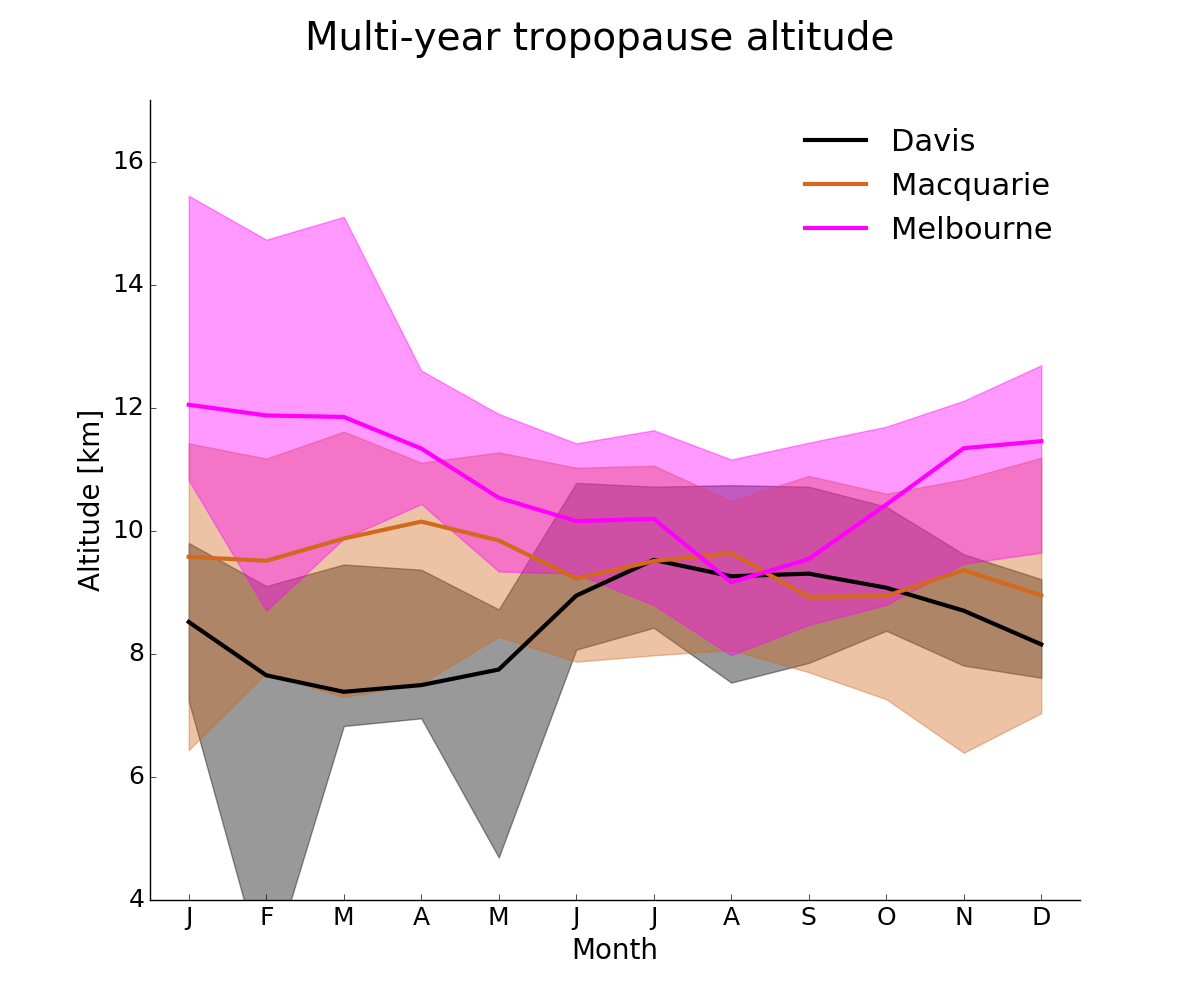
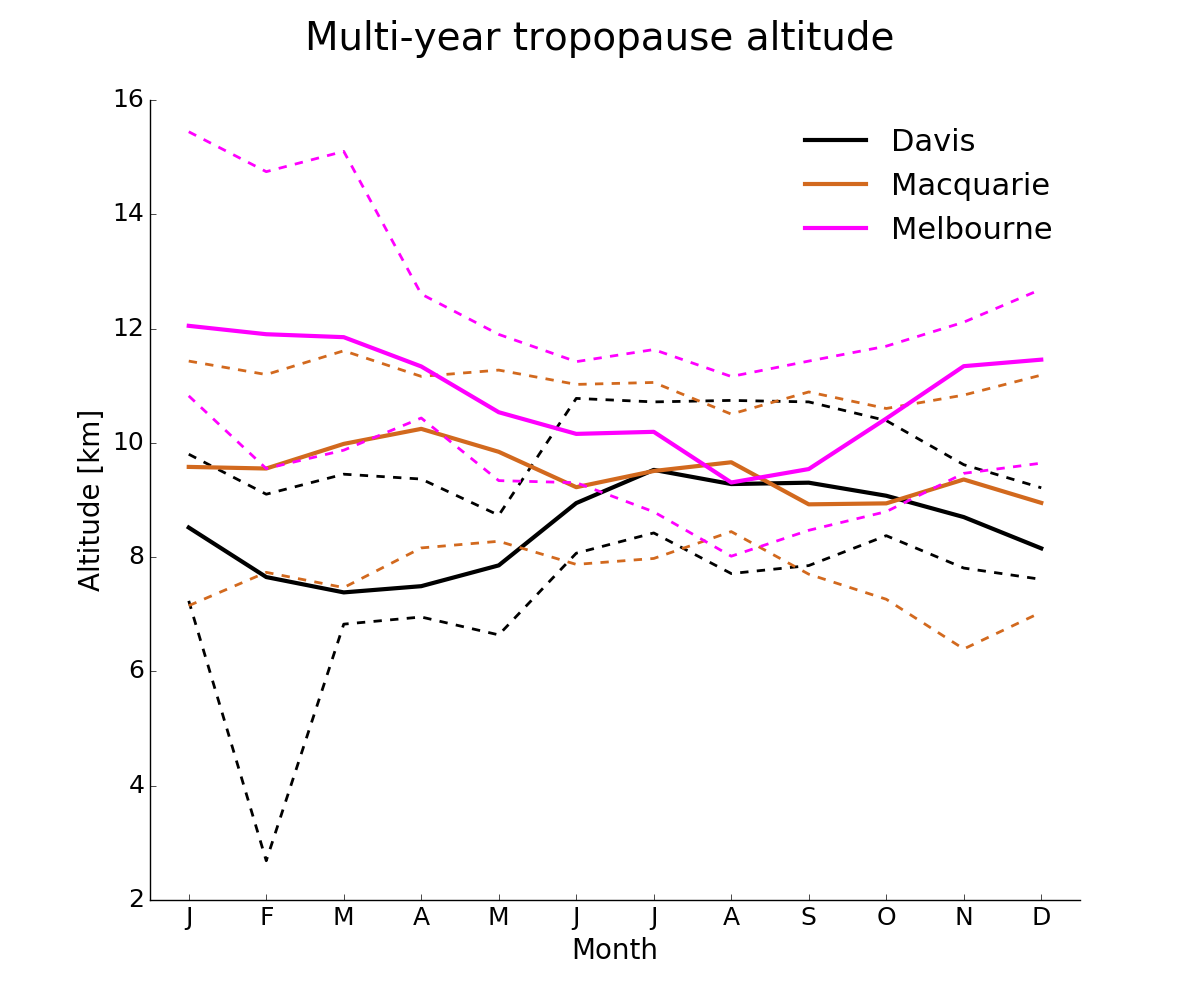
Problem with tropopuse heights encountered - emailed SAlexander

diff --git a/examine_stations.py b/examine_stations.py
@@ -214,7 +214,25 @@ def plot_andrew_STT():
     plt.savefig(pltname)
     print('saved '+pltname)
 
-def seasonal_tropopause(show_event_tropopauses=False):
+def check_weird_tp():
+    ''' show profiles where tropopause reading is weird '''
+    sondes = [ fio.read_sonde(site=j) for j in range(3) ]
+    for si,sonde in enumerate(sondes):
+        name=sonde.name
+        tp = np.array(sonde.tp)
+        tplr = np.array(sonde.tplr)
+        tpo3 = np.array(sonde.tpo3)
+        for i,t in enumerate(tp):
+            if t < 4:
+                date=sonde.dates[i]
+                dstr=date.strftime('%Y%m%d')
+                print ("%s %s: tp,tplr,tpo3: %5.3e %5.3e %5.3e"%(name,dstr,tp[i],tplr[i],tpo3[i]))
+                fig=sonde.plot_profile(date=date, alltps=True)
+                fig.savefig('images/eventprofiles/temp/%s%s'%(name,dstr))
+            continue
+    
+    
+def seasonal_tropopause(show_event_tropopauses=False, shading=False):
     ''' Plot seasonal tropopause heights for each station '''
     #sonde data
     sondes = [ fio.read_sonde(site=j) for j in range(3) ]
@@ -227,14 +245,15 @@ def seasonal_tropopause(show_event_tropopauses=False):
     Xstr=['J','F','M','A','M','J','J','A','S','O','N','D']
     colours=['k','chocolate','magenta']
     
-    tp_m=np.zeros([12,3])
-    tp_u=np.zeros([12,3])
-    tp_d=np.zeros([12,3])
-    tp_e=np.zeros([12,3])
+    tp_m=np.zeros([12,3]) # median tropopause
+    tp_u=np.zeros([12,3]) # upper percentile
+    tp_d=np.zeros([12,3]) # downward percentile
+    tp_e=np.zeros([12,3]) # event median tropopause
     for si,sonde in enumerate(sondes):
         for month in range(12):
             minds   = sonde.month_indices(month+1)
             tps     = np.array(sonde.tp)[minds]
+            
             if show_event_tropopauses:
                 eminds  = np.array(list(set.intersection(set(minds),set(sonde.einds))))
                 # if no events in this month
@@ -247,13 +266,23 @@ def seasonal_tropopause(show_event_tropopauses=False):
             tp_d[month,si]      = np.nanpercentile(tps, 10)
         # plot the median and shade the 80% percentile range
         plt.plot(X,tp_m[:,si],color=colours[si],label=sonde.name,linewidth=3)
-        plt.fill_between(X, tp_d[:,si], tp_u[:,si], color=colours[si],alpha=0.4)
+        if shading:
+            plt.fill_between(X, tp_d[:,si], tp_u[:,si], color=colours[si],alpha=0.4)
+        else:
+            plt.plot(X,tp_d[:,si], color=colours[si], linewidth=2, linestyle='--')
+            plt.plot(X,tp_u[:,si], color=colours[si], linewidth=2, linestyle='--')
         if show_event_tropopauses:
             # dotted line on event tpheights
             plt.plot(X, tp_e[:,si], '--',color=colours[si])
+        print(sonde.name)
+        print("Max TP: %5.2e"%np.nanmax(sonde.tp))
+        print("Min TP: %5.2e"%np.nanmin(sonde.tp))
     plt.xticks(X,Xstr)
     plt.xlim([-0.5,11.5])
-    plt.ylim([4,17])
+    lbound,ubound=np.floor(np.nanmin(tp_d)), np.ceil(np.nanmax(tp_u))
+    print([lbound,ubound])
+    ylimits=[lbound,ubound]
+    plt.ylim(ylimits)
     plt.ylabel('Altitude [km]',fontsize=20)
     plt.xlabel('Month',fontsize=20)
     plt.legend(fontsize=22,loc=0,frameon=False)
@@ -386,6 +415,7 @@ def plot_extrapolation(Region, pltname='images/STT_extrapolation.png'):
     # print both values
     print("%5.3e molecules/cm2/yr STT ozone contribution to the southern high latitudes"%molecs)
     print("(%5.3e Tg/yr)"%np.sum(Tg_per_month))
+    print("This occurs over %5.3e square kilometres"%(so_area/1e6))
     
     # check_Terao08_impact:
     print("If we assume the proportion of ozone due to an event is actually 35\%, as in Terao08 for the northern hemisphere:")
@@ -575,7 +605,7 @@ def check_extrapolation():
 
 def seasonal_profiles(hour=0, degradesondes=False, pctl=10):
     '''
-    Profile mean and std deviation for each month for each site
+    Profile mean and std deviation for each season for each site
     If you only want to consider a particular hour then set the hour parameter
         hour can be one of [0, 6, 12, 18]
     set degradesondes=True to degrade the sondes to matching GEOS-Chem resolution before finding the average..
@@ -618,9 +648,9 @@ def seasonal_profiles(hour=0, degradesondes=False, pctl=10):
         TP = site['TropopauseAltitude'] / 1000.0
         Z  = site['Altitudes']/1000.0 
         s_Z  = np.array(sonde.gph) / 1000.0 
-        # Interpolate to grid up to 14km
+        # Interpolate to grid up to 15km
         Znewlen = 200
-        Znew= np.linspace(0,14,Znewlen)
+        Znew= np.linspace(0,15,Znewlen)
         # need to vertically bin the O3 profiles,
         # interpolated at 100 points up to 14km
         means=np.zeros([4,Znewlen])
@@ -633,8 +663,8 @@ def seasonal_profiles(hour=0, degradesondes=False, pctl=10):
         counts = np.zeros(4)
         s_means=np.zeros([4,Znewlen])
         s_medians=np.zeros([4,Znewlen])
-        s_pcta = np.zeros([4,Znewlen]) # 5th percentile
-        s_pctb = np.zeros([4,Znewlen]) # 95th percentile
+        s_pcta = np.zeros([4,Znewlen]) # ath percentile
+        s_pctb = np.zeros([4,Znewlen]) # bth percentile
         s_stds =np.zeros([4,Znewlen])
         s_TPm = np.zeros(4)
         s_TPstd = np.zeros(4)
@@ -696,7 +726,7 @@ def seasonal_profiles(hour=0, degradesondes=False, pctl=10):
             
         stn_name=site['Station'].split(' ')[0]
         
-        # plot the median profiles and shade the area of 5th-95th percentile
+        # plot the median profiles and shade the area of xth-(100-x)th percentile
         for i in range(4):
             plt.sca(axes[i,j]) # set current axis
             X=medians[i,:]                
@@ -735,6 +765,7 @@ def seasonal_profiles(hour=0, degradesondes=False, pctl=10):
                 twinax=plt.twinx()
                 twinax.set_yticks([]) # turn off ticks
                 twinax.set_ylabel(seasonstr[i],fontsize=26,color=seasonalcolours[i])
+                    
             
             # Print mean bias between model and obs tropopause heights.
             # 
@@ -1457,9 +1488,10 @@ if __name__ == "__main__":
     # N W S E regions:
     Region1=[-60, 140, -35, 165] # region for Melb and Macca
     Region2=[-70, 60, -55, 90] # region for Davis
-    plot_extrapolation(Region1,pltname='STT_extrapolation_MelbMac.png')
-    plot_extrapolation(Region2,pltname='STT_extrapolation_Dav.png')
-    #seasonal_tropopause() # plot tpheights.png
+    #plot_extrapolation(Region1,pltname='images/STT_extrapolation_MelbMac.png')
+    #plot_extrapolation(Region2,pltname='images/STT_extrapolation_Dav.png')
+    #check_weird_tp()# look at profile of low tp sondes
+    seasonal_tropopause(shading=False) # plot tpheights.png
     #seasonal_tropozone()
     #check_GC_output()
     #[event_profiles(s,legend = (s==1)) for s in [0,1,2]]

diff --git a/sondes.py b/sondes.py
@@ -98,7 +98,7 @@ class sondes:
             self.dates[di], \
             self.tp[di], self.tplr[di], self.tpo3[di])
         return profile
-    def plot_profile(self, date, ytop=14, xtop=130, size=(8,16)):
+    def plot_profile(self, date, ytop=14, xtop=130, size=(8,16), alltps=False):
         import matplotlib.pyplot as plt
         prof=self.get_profile(date)
         date2=prof[4]
@@ -111,14 +111,18 @@ class sondes:
         ax1.plot(prof[1],yaxi,'k',linewidth=2.0)
         ax2 = ax1.twiny()
         ax2.plot(prof[2],yaxi,'r')
-        ax1.plot([xl,xr],[prof[5],prof[5]],'--k')
+        if alltps:
+            ax1.plot([xl,xr],[prof[6],prof[6]],'--r')
+            ax1.plot([xl,xr],[prof[7],prof[7]],'--k')
+        else:
+            ax1.plot([xl,xr],[prof[5],prof[5]],'--k')
         ax1.set_ylim(yl,yr)
         ax1.set_xlim(xl,xr)
-        ax2.set_xlim(-55,25)
+        ax2.set_xlim(-75,25)
         #plt.yscale('log')
         
         ax1.set_ylabel('GPH (km)')
-        ax2.set_xlabel('Temp (C)')
+        ax2.set_xlabel('Temp (C)', color='r')
         ax1.set_xlabel('Ozone (ppbv)')
 
         title=self.name+' '+date2.strftime('%Y-%m-%d')
@@ -133,7 +137,7 @@ class sondes:
         for si in np.arange(0,ns):
             ppbv=np.array(self.o3ppbv[si,:])
             Z=np.array(self.gph[si,:]) / 1e3 # m to km
-            tpo3=-1.0
+            tpo3=np.NaN
 
             ## FIRST
             ## set the ozone tropopause
@@ -146,8 +150,8 @@ class sondes:
             testrange=np.intersect1d(z1,z2)
             upper = [ 2.0, 1.5 ][polar]
             if np.size(testrange) < 2 or np.size(Z) < 2 :
-                self.tpo3.append(-1)
-                self.tplr.append(-1)
+                self.tpo3.append(np.NaN)
+                self.tplr.append(np.NaN)
                 continue
             for ind in testrange:
                 
@@ -170,7 +174,7 @@ class sondes:
             
             ## SECOND 
             ## find temperature tropopause
-            tplr=-1.0
+            tplr=np.NaN # if not set here leave it as NAN
             rate=-2.0
             minh=2.0
             temp=np.array(self.temp[si,:])
@@ -186,16 +190,27 @@ class sondes:
                 z2=np.where(Z < (alt+2.0))[0]
                 checks =np.intersect1d(z1,z2) 
                 
+                # OLD WAY:
                 if np.mean(lapse[checks]) > rate :
+                    if alt < 4:
+                        print("DEBUG:")
+                        print("Lapse Rate")
+                        print(lapse[checks])    # lapse rate
+                        print("Z:")
+                        print(Z[checks])
+                        print("Range checked:")
+                        print(checks)   # Where we loooked
                     tplr=alt
                     break
             self.tplr.append(tplr)
         ## FINALLY
         # tp is minimum of lapse rate and ozone tropopause
-        self.tp = np.minimum(self.tplr,self.tpo3).tolist()
+        self.tp = np.minimum(self.tplr,self.tpo3).tolist() 
+        
+        # add index of tropopause level to sonde profile
         for i in range(ns):
             Z=np.array(self.gph[i,:])/1e3
-            if self.tp[i]  == -1:
+            if np.isnan(self.tp[i]):
                 self.tpinds.append(np.NaN)
             else:
                 self.tpinds.append(np.where(Z == self.tp[i])[0][0])
